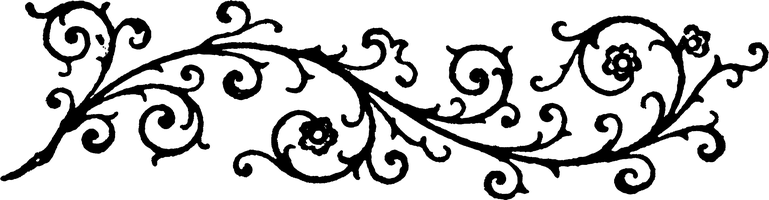
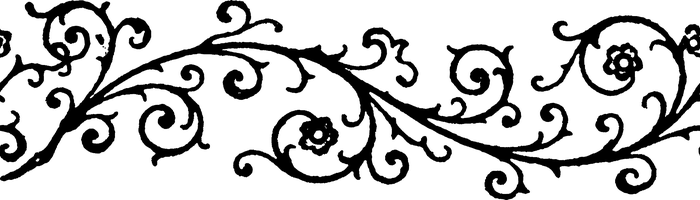
Work: vine runs unbroken behind the signs (sign surround transparent, seamless vine tile); intro ~4s
Claude-Session: https://claude.ai/code/session_01ReK3odpm4rKW9WZt4hQeYG

diff --git a/index.html b/index.html
@@ -21,7 +21,7 @@
   <meta name="twitter:image" content="https://kylajoyner.com/assets/images/og-star.png">
   <!-- Adobe Fonts kit: West End + Narkiss Yair -->
   <link rel="stylesheet" href="https://use.typekit.net/ijs5kav.css">
-  <link rel="stylesheet" href="css/style.css?v=174">
+  <link rel="stylesheet" href="css/style.css?v=176">
 </head>
 <body>
   <!-- Full-screen intro (scroll to enter): it fills the whole screen before the header.
@@ -69,7 +69,7 @@
 
     <!-- Work page redo: new bento cards, built one at a time -->
     <!-- Art Direction section: Kyla's blank pixel saloon sign with the title in Bebas Neue, with the Old Spice projects under it -->
-    <h2 class="work-sign" id="work-start"><img src="assets/images/work/sign-blank.png" alt="" width="942" height="496"><span class="work-sign__label">Art Direction</span></h2>
+    <h2 class="work-sign" id="work-start"><img src="assets/images/work/sign-blank.png?v=2" alt="" width="942" height="496"><span class="work-sign__label">Art Direction</span></h2>
     <ul class="bento">
       <li class="bento__item">
         <a class="bento-card" href="old-spice.html">
@@ -104,7 +104,7 @@
     </ul>
 
     <!-- Design section: the same sign reading Design, with UNC WBB and The Daily Tar Heel under it -->
-    <h2 class="work-sign"><img src="assets/images/work/sign-blank.png" alt="" width="942" height="496"><span class="work-sign__label">Design</span></h2>
+    <h2 class="work-sign"><img src="assets/images/work/sign-blank.png?v=2" alt="" width="942" height="496"><span class="work-sign__label">Design</span></h2>
     <ul class="bento">
       <li class="bento__item">
         <a class="bento-card" href="unc-womens-basketball.html">
@@ -139,7 +139,7 @@
     </ul>
 
     <!-- Documentary section: the same sign reading Documentary, with CPW and Mālama Maui under it -->
-    <h2 class="work-sign"><img src="assets/images/work/sign-blank.png" alt="" width="942" height="496"><span class="work-sign__label">Documentary</span></h2>
+    <h2 class="work-sign"><img src="assets/images/work/sign-blank.png?v=2" alt="" width="942" height="496"><span class="work-sign__label">Documentary</span></h2>
     <ul class="bento">
       <li class="bento__item">
         <a class="bento-card" href="carolina-photojournalism-workshop.html">
@@ -192,6 +192,6 @@
     <p class="copyright">&copy; <span data-year>2026</span> Kyla Joyner. All rights reserved.</p>
   </footer>
 
-  <script src="js/main.js?v=130"></script>
+  <script src="js/main.js?v=131"></script>
 </body>
 </html>

diff --git a/js/main.js b/js/main.js
@@ -670,7 +670,7 @@
 
 // Work page intro speech: "..." first, then the outlaw line, then each descriptor
 // replaces the one before it in the same spot, then "We have some clues" under the
-// ride (about 3s in all). After that the descriptors keep looping.
+// ride (about 4s in all). After that the descriptors keep looping.
 (function () {
   const box = document.querySelector("[data-speech]");
   if (!box) return;
@@ -692,7 +692,7 @@
   let prevRole = null;
   dots.classList.add("is-typing");
   lines.forEach(function (line, i) {
-    t += 550; // the whole intro lands in about 3 seconds
+    t += 800; // the whole intro lands in about 4 seconds
     setTimeout(function () {
       if (line.classList.contains("speech__role")) {
         if (prevRole) {

diff --git a/carolina-photojournalism-workshop.html b/carolina-photojournalism-workshop.html
@@ -21,7 +21,7 @@
   <meta name="twitter:image" content="https://kylajoyner.com/assets/images/og-star.png">
   <!-- Adobe Fonts kit: West End + Narkiss Yair -->
   <link rel="stylesheet" href="https://use.typekit.net/ijs5kav.css">
-  <link rel="stylesheet" href="css/style.css?v=174">
+  <link rel="stylesheet" href="css/style.css?v=176">
   <script>try{if(sessionStorage.getItem("slide-in"))document.documentElement.classList.add("slide-in")}catch(e){}</script>
 </head>
 <body>
@@ -88,6 +88,6 @@
     <p class="copyright">&copy; <span data-year>2026</span> Kyla Joyner. All rights reserved.</p>
   </footer>
 
-  <script src="js/main.js?v=130"></script>
+  <script src="js/main.js?v=131"></script>
 </body>
 </html>

diff --git a/daily-tar-heel.html b/daily-tar-heel.html
@@ -21,7 +21,7 @@
   <meta name="twitter:image" content="https://kylajoyner.com/assets/images/og-star.png">
   <!-- Adobe Fonts kit: West End + Narkiss Yair -->
   <link rel="stylesheet" href="https://use.typekit.net/ijs5kav.css">
-  <link rel="stylesheet" href="css/style.css?v=174">
+  <link rel="stylesheet" href="css/style.css?v=176">
   <script>try{if(sessionStorage.getItem("slide-in"))document.documentElement.classList.add("slide-in")}catch(e){}</script>
 </head>
 <body>
@@ -69,6 +69,6 @@
     <p class="copyright">&copy; <span data-year>2026</span> Kyla Joyner. All rights reserved.</p>
   </footer>
 
-  <script src="js/main.js?v=130"></script>
+  <script src="js/main.js?v=131"></script>
 </body>
 </html>

diff --git a/malama-maui.html b/malama-maui.html
@@ -21,7 +21,7 @@
   <meta name="twitter:image" content="https://kylajoyner.com/assets/images/og-star.png">
   <!-- Adobe Fonts kit: West End + Narkiss Yair -->
   <link rel="stylesheet" href="https://use.typekit.net/ijs5kav.css">
-  <link rel="stylesheet" href="css/style.css?v=174">
+  <link rel="stylesheet" href="css/style.css?v=176">
   <script>try{if(sessionStorage.getItem("slide-in"))document.documentElement.classList.add("slide-in")}catch(e){}</script>
 </head>
 <body>
@@ -71,6 +71,6 @@
     <p class="copyright">&copy; <span data-year>2026</span> Kyla Joyner. All rights reserved.</p>
   </footer>
 
-  <script src="js/main.js?v=130"></script>
+  <script src="js/main.js?v=131"></script>
 </body>
 </html>

diff --git a/old-spice-ad.html b/old-spice-ad.html
@@ -21,7 +21,7 @@
   <meta name="twitter:image" content="https://kylajoyner.com/assets/images/og-star.png">
   <!-- Adobe Fonts kit: West End + Narkiss Yair -->
   <link rel="stylesheet" href="https://use.typekit.net/ijs5kav.css">
-  <link rel="stylesheet" href="css/style.css?v=174">
+  <link rel="stylesheet" href="css/style.css?v=176">
   <script>try{if(sessionStorage.getItem("slide-in"))document.documentElement.classList.add("slide-in")}catch(e){}</script>
 </head>
 <body>
@@ -71,6 +71,6 @@
     <p class="copyright">&copy; <span data-year>2026</span> Kyla Joyner. All rights reserved.</p>
   </footer>
 
-  <script src="js/main.js?v=130"></script>
+  <script src="js/main.js?v=131"></script>
 </body>
 </html>

diff --git a/unc-womens-basketball.html b/unc-womens-basketball.html
@@ -21,7 +21,7 @@
   <meta name="twitter:image" content="https://kylajoyner.com/assets/images/og-star.png">
   <!-- Adobe Fonts kit: West End + Narkiss Yair -->
   <link rel="stylesheet" href="https://use.typekit.net/ijs5kav.css">
-  <link rel="stylesheet" href="css/style.css?v=174">
+  <link rel="stylesheet" href="css/style.css?v=176">
   <script>try{if(sessionStorage.getItem("slide-in"))document.documentElement.classList.add("slide-in")}catch(e){}</script>
 </head>
 <body>
@@ -77,6 +77,6 @@
     <p class="copyright">&copy; <span data-year>2026</span> Kyla Joyner. All rights reserved.</p>
   </footer>
 
-  <script src="js/main.js?v=130"></script>
+  <script src="js/main.js?v=131"></script>
 </body>
 </html>

diff --git a/old-spice.html b/old-spice.html
@@ -21,7 +21,7 @@
   <meta name="twitter:image" content="https://kylajoyner.com/assets/images/og-star.png">
   <!-- Adobe Fonts kit: West End + Narkiss Yair -->
   <link rel="stylesheet" href="https://use.typekit.net/ijs5kav.css">
-  <link rel="stylesheet" href="css/style.css?v=174">
+  <link rel="stylesheet" href="css/style.css?v=176">
   <script>try{if(sessionStorage.getItem("slide-in"))document.documentElement.classList.add("slide-in")}catch(e){}</script>
 </head>
 <body>
@@ -97,6 +97,6 @@
 
   <script src="js/vendor/three.min.js?v=149"></script>
   <script src="js/deodorant.js?v=122"></script>
-  <script src="js/main.js?v=130"></script>
+  <script src="js/main.js?v=131"></script>
 </body>
 </html>

diff --git a/about.html b/about.html
@@ -21,7 +21,7 @@
   <meta name="twitter:image" content="https://kylajoyner.com/assets/images/og-star.png">
   <!-- Adobe Fonts kit: West End + Narkiss Yair -->
   <link rel="stylesheet" href="https://use.typekit.net/ijs5kav.css">
-  <link rel="stylesheet" href="css/style.css?v=174">
+  <link rel="stylesheet" href="css/style.css?v=176">
 </head>
 <body>
   <header class="site-header">
@@ -204,6 +204,6 @@
     <p class="copyright">&copy; <span data-year>2026</span> Kyla Joyner. All rights reserved.</p>
   </footer>
 
-  <script src="js/main.js?v=130"></script>
+  <script src="js/main.js?v=131"></script>
 </body>
 </html>

diff --git a/rodeo.html b/rodeo.html
@@ -21,7 +21,7 @@
   <meta name="twitter:image" content="https://kylajoyner.com/assets/images/og-star.png">
   <!-- Adobe Fonts kit: West End + Narkiss Yair -->
   <link rel="stylesheet" href="https://use.typekit.net/ijs5kav.css">
-  <link rel="stylesheet" href="css/style.css?v=174">
+  <link rel="stylesheet" href="css/style.css?v=176">
 </head>
 <body>
   <header class="site-header">
@@ -116,6 +116,6 @@
     <p class="copyright">&copy; <span data-year>2026</span> Kyla Joyner. All rights reserved.</p>
   </footer>
 
-  <script src="js/main.js?v=130"></script>
+  <script src="js/main.js?v=131"></script>
 </body>
 </html>

diff --git a/css/style.css b/css/style.css
@@ -2534,7 +2534,7 @@ a {
   left: calc(50% - 50vw);
   width: 100vw;
   height: calc(88 * var(--u));
-  background: url("../assets/images/work/vine-line.png") center / auto 100% repeat-x;
+  background: url("../assets/images/work/vine-line.png?v=2") center / auto 100% repeat-x;
 }
 .work-sign img {
   position: relative; /* in front of the vine */
